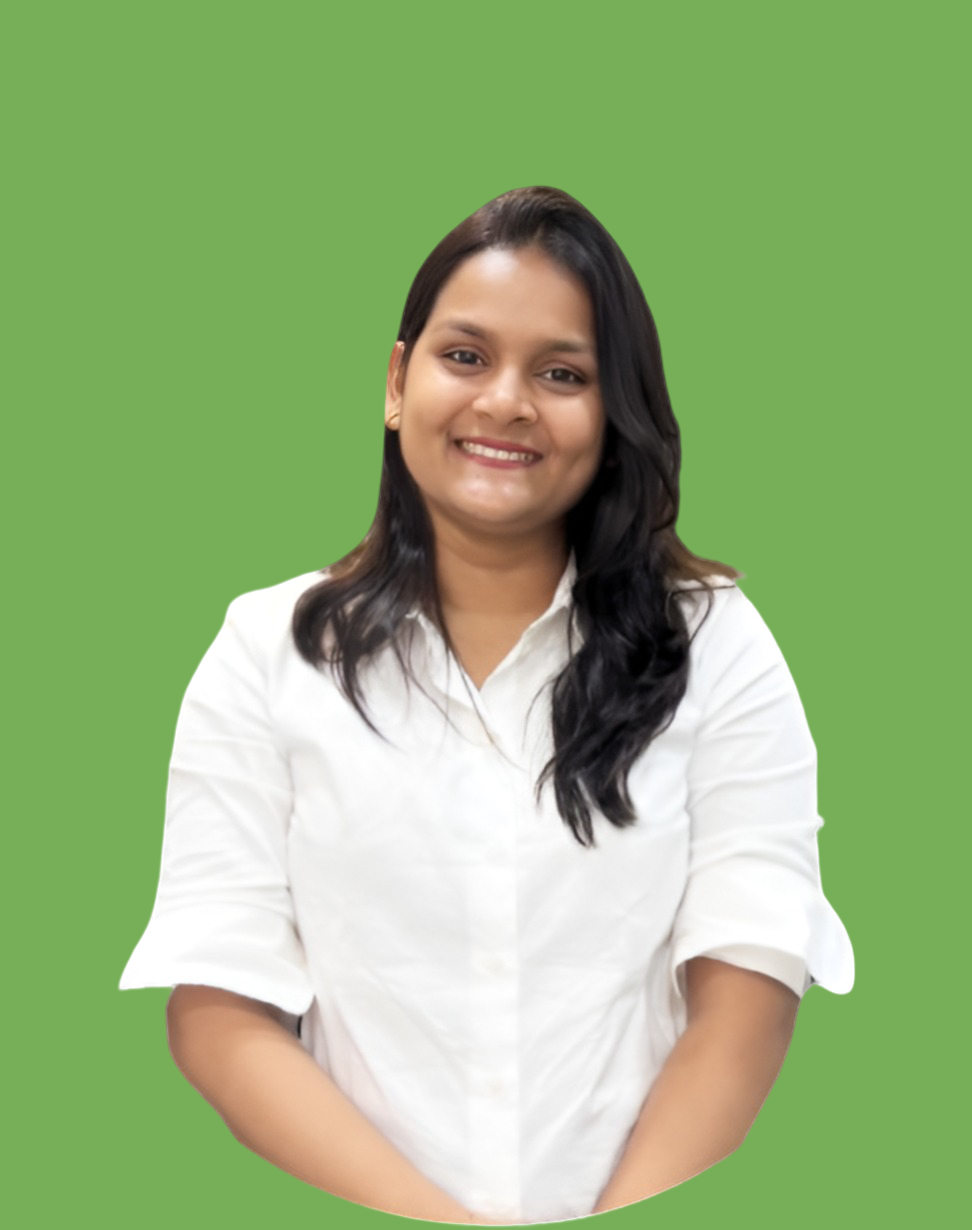
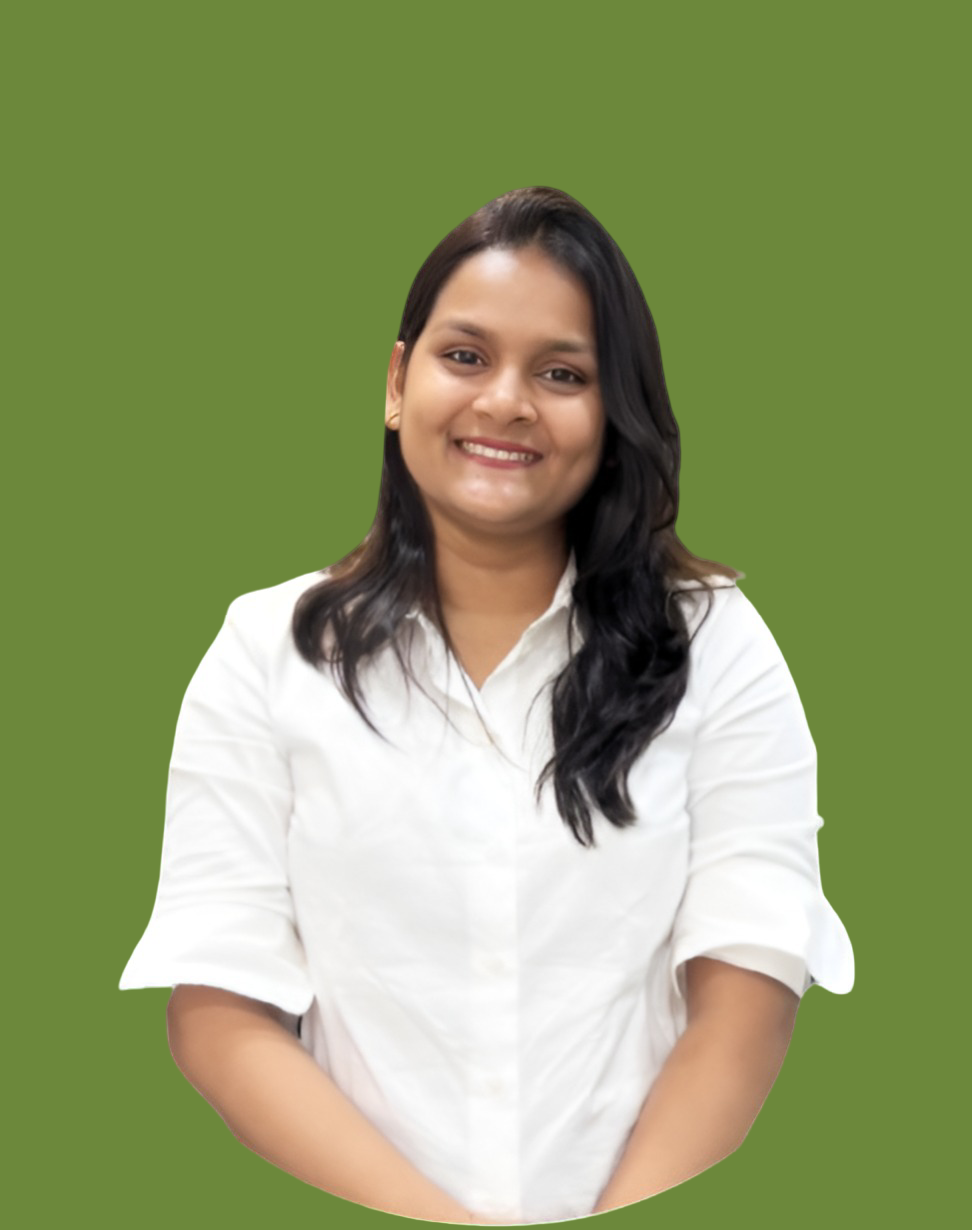
Color change to olive

diff --git a/src/components/layout/Header.tsx b/src/components/layout/Header.tsx
@@ -22,19 +22,17 @@ export function Header() {
       <header className="fixed top-6 left-1/2 -translate-x-1/2 z-50 w-[95%] max-w-7xl">
         <div className="flex items-center justify-between">
 
-          {/* LEFT - White Logo */}
-          {/* <div className="bg-white px-6 py-3 rounded-full shadow-md"> */}
-            <Link to="/">
-              <img
-                src={logo}
-                alt="Dr Komal Logo"
-                className="w-40 md:w-48 h-auto"
-              />
-            </Link>
-          {/* </div> */}
+          {/* LEFT - Logo */}
+          <Link to="/">
+            <img
+              src={logo}
+              alt="Dr Komal Logo"
+              className="w-40 md:w-48 h-auto"
+            />
+          </Link>
 
           {/* CENTER - Green Rounded Nav */}
-          <div className="hidden lg:flex bg-[#77af58] px-12 py-4 rounded-full shadow-lg">
+          <div className="hidden lg:flex bg-olive-600 px-12 py-4 rounded-full shadow-lg">
             <div className="flex items-center gap-10">
               {navigation.map((item) => (
                 <Link
@@ -53,19 +51,19 @@ export function Header() {
             </div>
           </div>
 
-          {/* RIGHT - White Contact Button */}
+          {/* RIGHT - Contact Button */}
           <div className="hidden lg:block">
             <Link
               to="/contact"
-              className="bg-white text-[#77af58] px-8 py-3 rounded-full text-lg font-semibold shadow-md hover:bg-gray-100 transition"
+              className="bg-white text-olive-500 px-8 py-3 rounded-full text-lg font-semibold shadow-md hover:bg-gray-100 transition"
             >
               Contact Us
             </Link>
           </div>
 
-          {/* Mobile Menu */}
+          {/* Mobile Menu Button */}
           <button
-            className="lg:hidden bg-[#77af58] text-white p-3 rounded-full"
+            className="lg:hidden bg-olive-500 text-white p-3 rounded-full"
             onClick={() => setMobileMenuOpen(!mobileMenuOpen)}
           >
             {mobileMenuOpen ? <X size={24} /> : <Menu size={24} />}
@@ -74,7 +72,7 @@ export function Header() {
 
         {/* Mobile Dropdown */}
         {mobileMenuOpen && (
-          <div className="lg:hidden mt-4 bg-[#77af58] rounded-3xl shadow-lg px-6 py-6">
+          <div className="lg:hidden mt-4 bg-olive-500 rounded-3xl shadow-lg px-6 py-6">
             <div className="flex flex-col gap-5">
               {navigation.map((item) => (
                 <Link
@@ -86,10 +84,11 @@ export function Header() {
                   {item.name}
                 </Link>
               ))}
+
               <Link
                 to="/contact"
                 onClick={() => setMobileMenuOpen(false)}
-                className="bg-white text-[#77af58] text-center py-3 rounded-full text-lg font-semibold"
+                className="bg-white text-olive-500 text-center py-3 rounded-full text-lg font-semibold"
               >
                 Contact Us
               </Link>

diff --git a/src/components/home/HeroSection.tsx b/src/components/home/HeroSection.tsx
@@ -4,11 +4,10 @@ import heroImage from "@/assets/dr_komal_1.png";
 
 export function HeroSection() {
   return (
-    <section className="relative min-h-screen overflow-hidden flex items-center justify-center bg-white">
-      
+    <section className="relative min-h-screen overflow-hidden flex items-center justify-center bg-white -translate-y-10">
       {/* Doctor Name – True Center */}
       <h1
-        className="absolute left-0 right-0 top-16 tracking-normal md:tracking-wide lg:tracking-wider text-6xl md:text-7xl lg:text-8xl font-bold text-[#77af58] text-center z-30 animate-fade-up opacity-0"
+        className="absolute left-0 right-0 top-16 tracking-normal md:tracking-wide lg:tracking-wider text-6xl md:text-7xl lg:text-8xl font-bold text-olive-600 text-center z-30 animate-fade-up opacity-0"
         style={{
           fontFamily: "Nunito, sans-serif",
           WebkitTextStroke: "1px white",
@@ -35,17 +34,20 @@ export function HeroSection() {
       {/* Content Layer */}
       <div className="relative z-10 container-custom">
         <div className="grid grid-cols-1 lg:grid-cols-3 items-center min-h-screen pt-40 gap-10">
-          
           {/* LEFT CONTENT */}
           <div className="space-y-6 text-center lg:text-left text-black">
             <h3 className="text-2xl font-bold text-black">
-              Experienced orthopedic physiotherapist
+              Experienced Orthopedic Physiotherapist
             </h3>
 
             <p className="text-lg text-black max-w-md">
-              With over 7 years of experience, Dr. Komal R. Gupta is a trusted
-              orthopedic physiotherapist dedicated to helping patients regain
-              mobility and improve their quality of life.
+              With over 8 years of experience,
+              <br />
+              <span className="text-lime-700 font-semibold">
+                Dr. Komal R. Gupta
+              </span>{" "}
+              is a trusted orthopedic physiotherapist dedicated to helping
+              patients regain mobility and improve their quality of life.
             </p>
           </div>
 
@@ -62,7 +64,7 @@ export function HeroSection() {
             <Button
               asChild
               size="lg"
-              className="rounded-full px-8 bg-[#77af58] text-white hover:bg-[#6aa24d] transition"
+              className="rounded-full px-8 bg-olive-600 text-white hover:bg-olive-500 transition"
             >
               <Link to="/contact">Book an appointment</Link>
             </Button>

diff --git a/src/index.css b/src/index.css
@@ -2,7 +2,7 @@
 @tailwind components;
 @tailwind utilities;
 
-@import url('https://fonts.googleapis.com/css2?family=Plus+Jakarta+Sans:wght@400;500;600;700;800&display=swap');
+@import url("https://fonts.googleapis.com/css2?family=Plus+Jakarta+Sans:wght@400;500;600;700;800&display=swap");
 
 @layer base {
   :root {
@@ -16,7 +16,7 @@
     --popover-foreground: 200 25% 15%;
 
     /* 🔥 PRIMARY NOW OLIVE */
-    --primary: 90 50% 40%;          /* olive-500 */
+    --primary: 90 50% 40%; /* olive-500 */
     --primary-foreground: 0 0% 100%;
 
     --secondary: 180 15% 95%;
@@ -49,11 +49,7 @@
     --sidebar-ring: 90 50% 40%;
 
     /* 🔥 HERO GRADIENT NOW OLIVE */
-    --hero-gradient: linear-gradient(
-      135deg,
-      hsl(90, 50%, 40%) 0%,
-      hsl(90, 50%, 32%) 100%
-    );
+    --hero-gradient: linear-gradient(135deg, #628141 0%, #628141 100%);
 
     --card-shadow: 0 4px 20px -4px hsl(200 25% 15% / 0.08);
     --card-shadow-hover: 0 12px 32px -8px hsl(200 25% 15% / 0.12);
@@ -114,10 +110,15 @@
 
   body {
     @apply bg-background text-foreground font-sans antialiased;
-    font-family: 'Plus Jakarta Sans', sans-serif;
+    font-family: "Plus Jakarta Sans", sans-serif;
   }
 
-  h1, h2, h3, h4, h5, h6 {
+  h1,
+  h2,
+  h3,
+  h4,
+  h5,
+  h6 {
     @apply font-semibold tracking-tight;
   }
 }
@@ -177,8 +178,16 @@
     }
   }
 
-  .stagger-1 { animation-delay: 0.1s; }
-  .stagger-2 { animation-delay: 0.2s; }
-  .stagger-3 { animation-delay: 0.3s; }
-  .stagger-4 { animation-delay: 0.4s; }
+  .stagger-1 {
+    animation-delay: 0.1s;
+  }
+  .stagger-2 {
+    animation-delay: 0.2s;
+  }
+  .stagger-3 {
+    animation-delay: 0.3s;
+  }
+  .stagger-4 {
+    animation-delay: 0.4s;
+  }
 }
